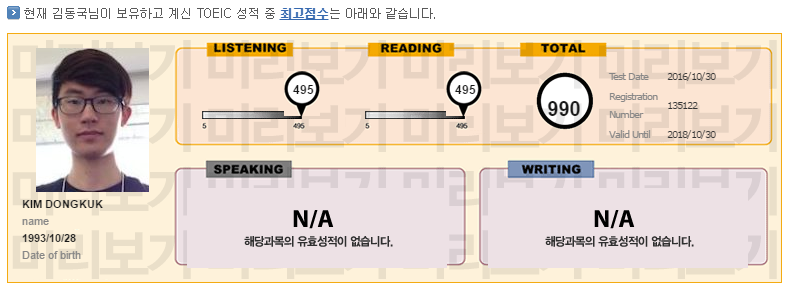
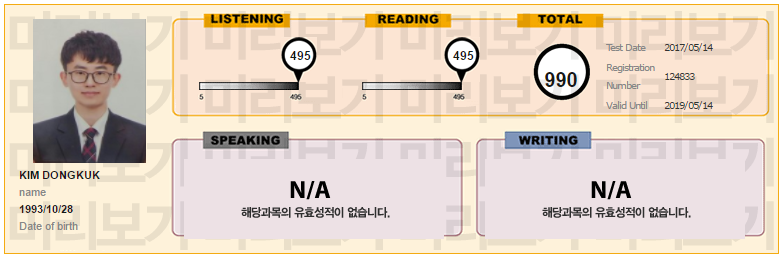
강사소개

diff --git a/index.html b/index.html
@@ -13,6 +13,9 @@
 		<link rel="stylesheet" href="assets/css/main.css" />
 		<!--[if lte IE 8]><link rel="stylesheet" href="assets/css/ie8.css" /><![endif]-->
 		<!--[if lte IE 9]><link rel="stylesheet" href="assets/css/ie9.css" /><![endif]-->
+        <style>
+        @import url(http://fonts.googleapis.com/earlyaccess/nanumbrushscript.css);
+        </style>
 	</head>
 	<body>
 
@@ -20,12 +23,12 @@
 			<section id="header">
 				<div class="inner">
 					<span class="icon major fa-cloud"></span>
-					<h1>Hi, I'm <strong>Photon</strong>, another fine<br />
-					little freebie from <a href="http://html5up.net">HTML5 UP</a>.</h1>
-					<p>Accumsan feugiat mi commodo erat lorem ipsum, sed magna<br />
-					lobortis feugiat sapien sed etiam volutpat accumsan.</p>
+					<h1>신개념 <strong>영어과외</strong> 광주상륙<br />
+					수능영어만점, 토익만점 강사</h1>
+					<p>수능영어과외 7년, 토익과외 3년<br />
+					지금까지 개인지도한 학생 수 50명 이상!</p>
 					<ul class="actions">
-						<li><a href="#one" class="button scrolly">Discover</a></li>
+						<li><a href="#one" class="button scrolly">더 알아보기</a></li>
 					</ul>
 				</div>
 			</section>
@@ -36,13 +39,15 @@
 					<div class="row 150%">
 						<div class="6u 12u$(medium)">
 							<header class="major">
-								<h2>Lorem ipsum dolor adipiscing<br />
-								amet dolor consequat</h2>
+								<h2>가장 최근 토익성적 공개<br />
+								꾸준히 공부하는 강사</h2>
 							</header>
-							<p>Adipiscing a commodo ante nunc accumsan et interdum mi ante adipiscing. A nunc lobortis non nisl amet vis sed volutpat aclacus nascetur ac non. Lorem curae et ante amet sapien sed tempus adipiscing id accumsan.</p>
+							<p><strong>TOEIC</strong><br />
+                            시험일 17.05.14(일) <br /> 
+                            성적발표일 17.05.30(화) 오후 3시</p>
 						</div>
 						<div class="6u$ 12u$(medium) important(medium)">
-							<span class="image fit"><img src="images/pic01.jpg" alt="" /></span>
+							<span class="image fit"><img src="images/pic01.png" alt="" /></span>
 						</div>
 					</div>
 				</div>
@@ -54,22 +59,35 @@
 					<div class="row 150%">
 						<div class="6u 12u$(medium)">
 							<ul class="major-icons">
-								<li><span class="icon style1 major fa-code"></span></li>
-								<li><span class="icon style2 major fa-bolt"></span></li>
-								<li><span class="icon style3 major fa-camera-retro"></span></li>
-								<li><span class="icon style4 major fa-cog"></span></li>
-								<li><span class="icon style5 major fa-desktop"></span></li>
+								<li><span class="icon style1 major fa-graduation-cap"></span></li>
+								<li><span class="icon style2 major fa-book"></span></li>
+								<li><span class="icon style3 major fa-pencil"></span></li>
+								<li><span class="icon style4 major fa-university"></span></li>
+								<li><span class="icon style5 major fa-briefcase"></span></li>
 								<li><span class="icon style6 major fa-calendar"></span></li>
 							</ul>
 						</div>
 						<div class="6u$ 12u$(medium)">
 							<header class="major">
-								<h2>Lorem ipsum dolor adipiscing<br />
-								amet dolor consequat</h2>
+								<h2>강사소개</h2>
 							</header>
-							<p>Adipiscing a commodo ante nunc accumsan interdum mi ante adipiscing. A nunc lobortis non nisl amet vis volutpat aclacus nascetur ac non. Lorem curae eu ante amet sapien in tempus ac. Adipiscing id accumsan adipiscing ipsum.</p>
-							<p>Blandit faucibus proin. Ac aliquam integer adipiscing enim non praesent vis commodo nunc phasellus cubilia ac risus accumsan. Accumsan blandit. Lobortis phasellus non lobortis dit varius mi varius accumsan lobortis. Blandit ante aliquam lacinia lorem lobortis semper morbi col faucibus vitae integer placerat accumsan orci eu mi odio tempus adipiscing adipiscing adipiscing curae consequat feugiat etiam dolore.</p>
-							<p>Adipiscing a commodo ante nunc accumsan interdum mi ante adipiscing. A nunc lobortis non nisl amet vis volutpat aclacus nascetur ac non. Lorem curae eu ante amet sapien in tempus ac. Adipiscing id accumsan adipiscing ipsum.</p>
+                            <p><a href="https://www.hanyang.ac.kr/web/www/s_college_department-info"> 한양대학교</a> 공과대학 정보시스템학과<br />(영어커뮤니케이션 복수전공)</p>
+                            <p>네이버 설립 대학 <a href="https://nhnnext.org/about/index.nhn">NHNNEXT</a> 웹서버전공</p>
+                            <p>現) <a href="https://www.sil.org/">국제언어교육연구소</a> 정회원<br />
+                            現) 스터디 코치 운영자<br />
+                            現) 네이버카페 <a href="http://cafe.naver.com/suhui">수만휘</a> 멘토</p>
+                            <p>수능영어만점(100점)<br />
+                            토익만점(990점)<br />
+                            필리핀어학연수(<a href="http://smenglish.com/en/">SME어학원</a>)</p>
+                            <p></p>
+                            <br />
+                            <br />
+							<header class="major">
+								<h2>인사말</h2>
+							</header>
+							<p>
+                            얼마나 공부해야 하는지보다 <br />
+                            어떻게 공부해야 하는지를 고민합니다</p>
 						</div>
 					</div>
 				</div>
@@ -79,16 +97,16 @@
 			<section id="three" class="main style1 special">
 				<div class="container">
 					<header class="major">
-						<h2>Adipiscing amet consequat</h2>
+						<h2>과외 후기</h2>
 					</header>
-					<p>Ante nunc accumsan et aclacus nascetur ac ante amet sapien sed.</p>
+					<p>수강생의 생생한 과외후기를 지금 바로 만나보세요</p>
 					<div class="row 150%">
 						<div class="4u 12u$(medium)">
 							<span class="image fit"><img src="images/pic02.jpg" alt="" /></span>
-							<h3>Magna feugiat lorem</h3>
-							<p>Adipiscing a commodo ante nunc magna lorem et interdum mi ante nunc lobortis non amet vis sed volutpat et nascetur.</p>
+							<h3>공기업취준생(780->930점)</h3>
+							<p><span style="font-family: 'Nanum Brush Script', serif;     font-size: xx-large;">저만을 위한 새로운 교제로 같이 공부해주시는 모습이 정말 좋았습니다.</span></p>
 							<ul class="actions">
-								<li><a href="#" class="button">More</a></li>
+								<li><a href="http://blog.naver.com/xhdskandd/220998355259" class="button">자세히</a></li>
 							</ul>
 						</div>
 						<div class="4u 12u$(medium)">
